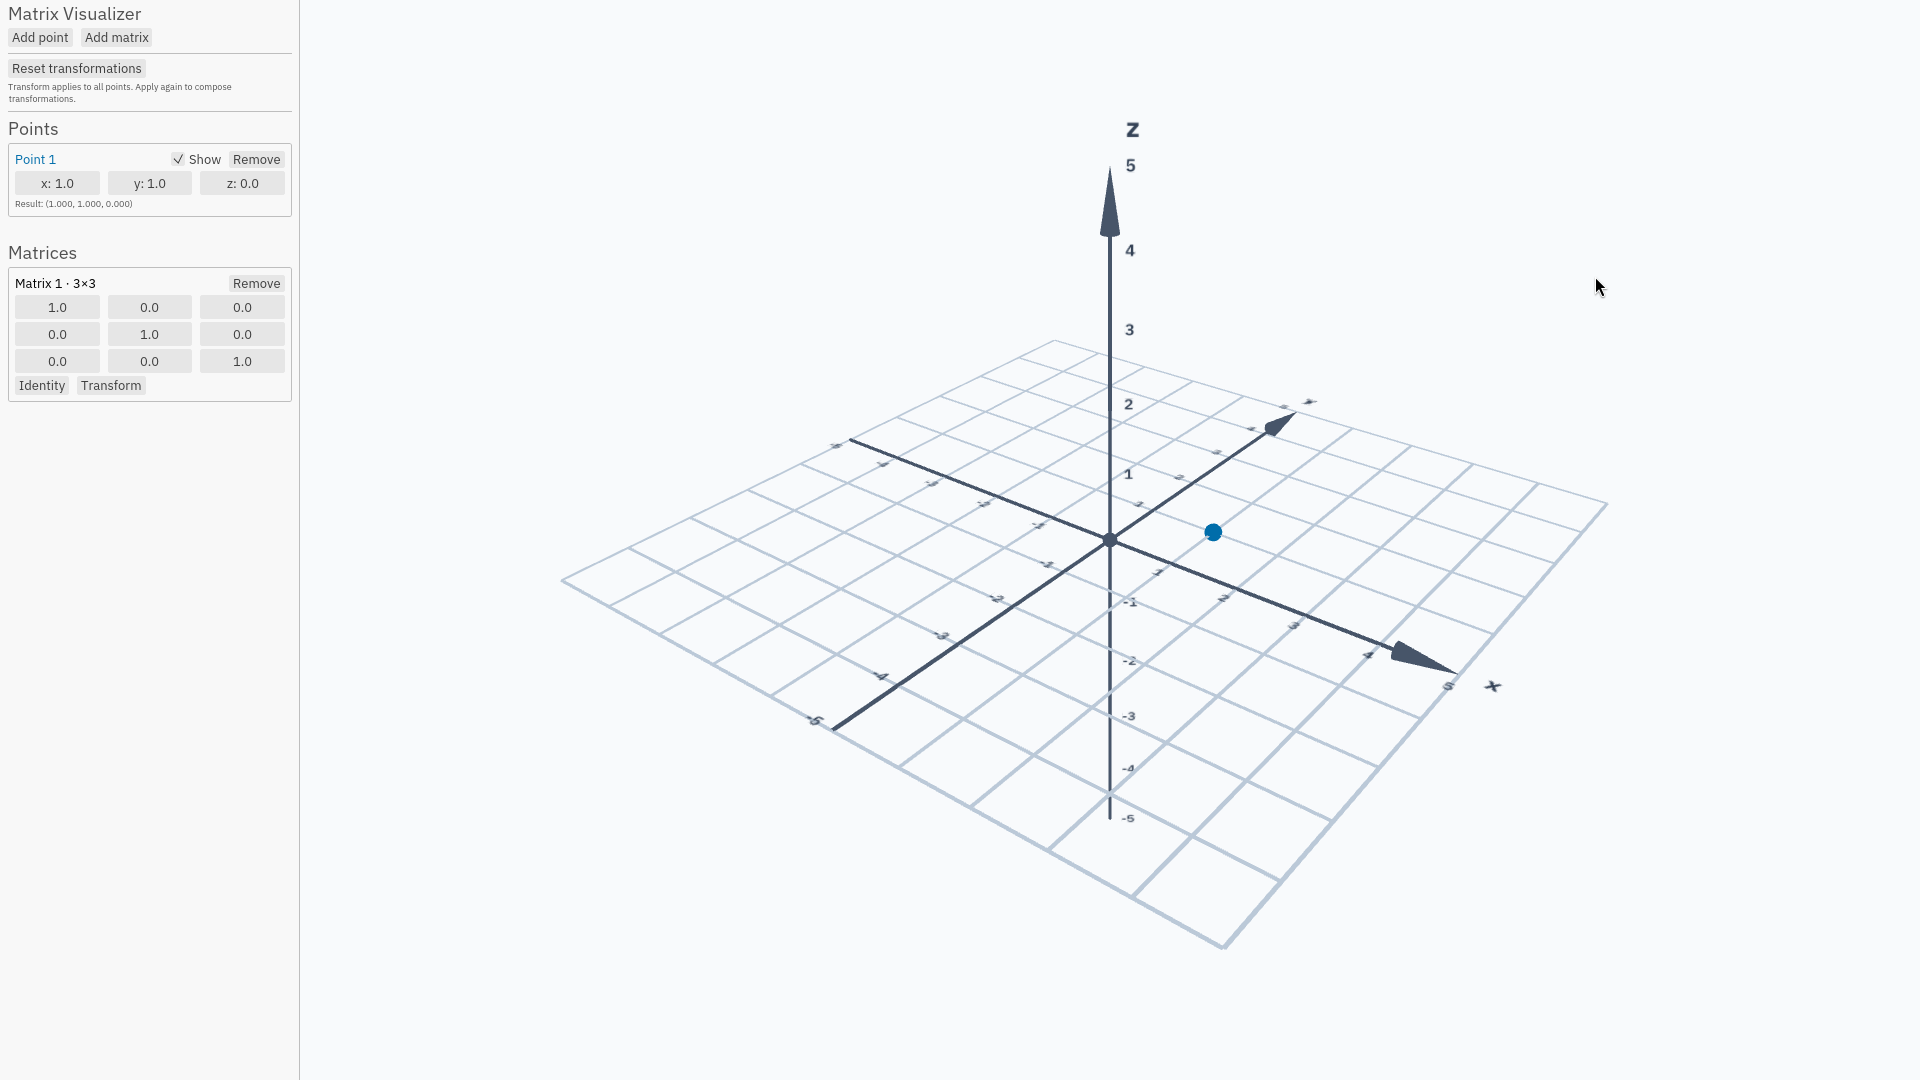
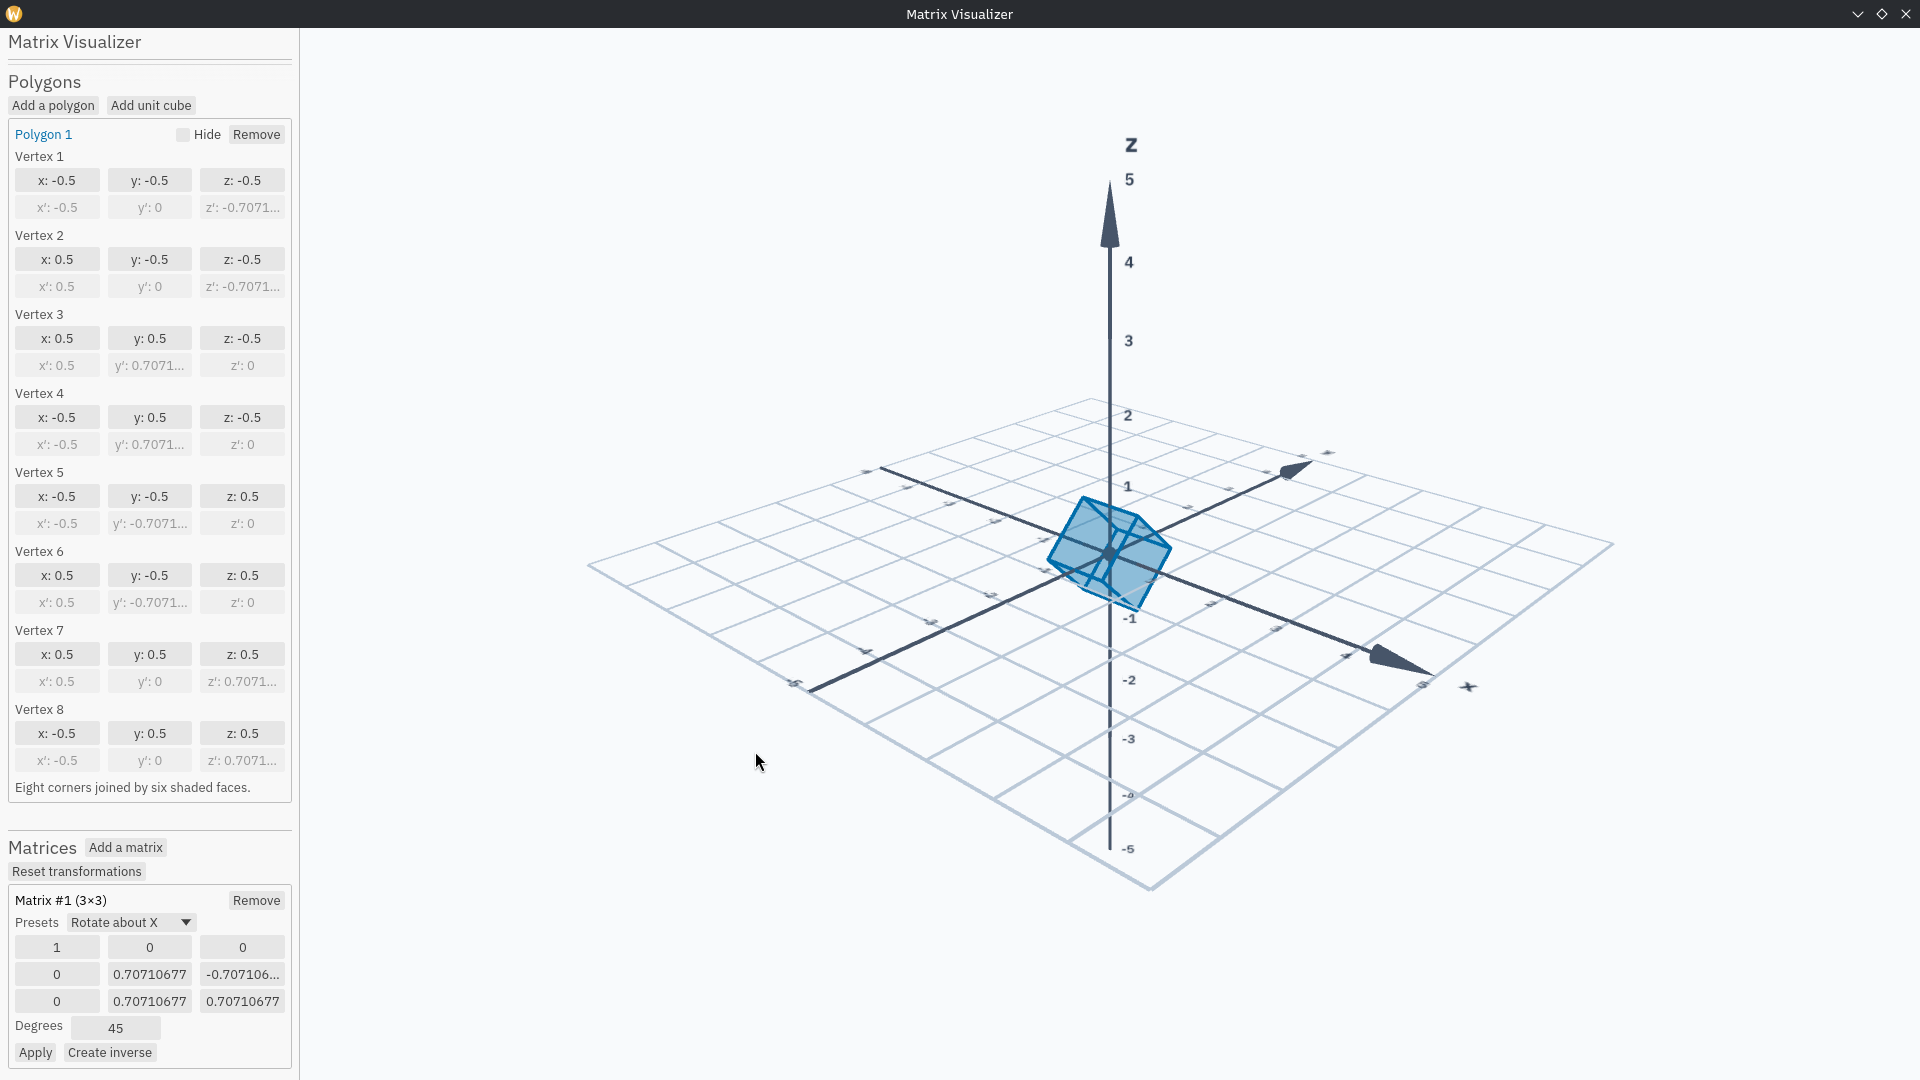
Set up GitHub Pages

diff --git a/README.md b/README.md
@@ -2,6 +2,8 @@
 
 For visualizing matrices and transformations in both 2D and 3D.
 
+See the site on: <https://hachispin.github.io/matrix-visualizer/>
+
 As of 20/10/2026, looks like this: ![Screenshot of the program, showing the grid and sidebar](./showcase.png)
 
 <details>
